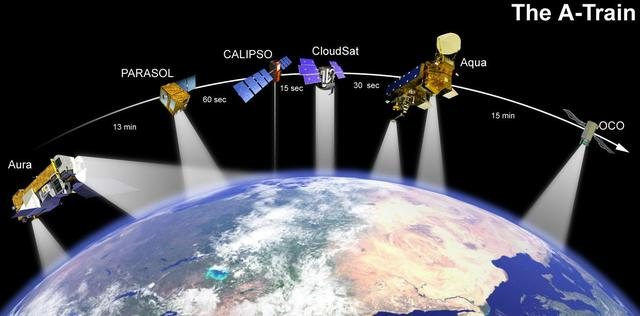
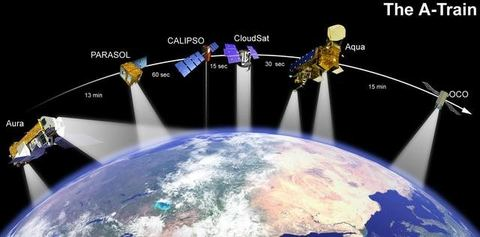
Trim decorative guidebook imagery
Keep a compact independent guidebook badge and one small topic-relevant NASA data illustration; remove repeated decorative photos from other guides.

diff --git a/README.md b/README.md
@@ -1,7 +1,7 @@
 # NASA Space Apps Challenge Bangladesh — বাংলা গাইডবুক
-![Earth observation from the International Space Station](assets/images/earth-from-iss.jpg)
-
-*Illustrative image: [NASA/JSC](<https://images.nasa.gov/details/iss045e013851>). This independent guide is not endorsed by NASA.*
+<p align="center">
+  <img src="assets/images/bangla-space-apps-guide.svg" width="300" alt="Independent Space Apps Bangla guidebook badge">
+</p>
 
 
 **NASA Space Apps Challenge Bangladesh** গাইডবুকটি বাংলাদেশি তরুণ-তরুণী, শিক্ষার্থী ও উদ্ভাবকদের জন্য—যাঁরা NASA Space Apps Challenge-এ অংশ নিতে চান এবং registration, challenge নির্বাচন, team formation, NASA open data, project তৈরি ও submission সম্পর্কে বাংলায় ধাপে ধাপে নির্দেশনা খুঁজছেন। এটি NASA-র official publication নয়; অংশগ্রহণের নিয়ম ও deadline সবসময় current-year official source-এ যাচাই করতে হবে।
@@ -10,7 +10,7 @@
 
 > **এটি community-created সহায়ক লাইব্রেরি; NASA-র official publication নয়।** Eligibility, schedule, team rules, challenge, AI/SI policy, judging, submission ও licence-এর ক্ষেত্রে অংশগ্রহণের বছরের official website, Participant FAQs, Terms এবং event guides-ই চূড়ান্ত। বছর উল্লেখ করা guide-কে অন্য edition-এর নিয়ম ধরে নেবেন না।
 >
-> NASA insignia/logotype এখানে ব্যবহার করা হয়নি: NASA-র brand guidance অনুযায়ী এগুলো protected এবং ভুল ব্যবহারে official endorsement-এর ধারণা হতে পারে। গাইডগুলোতে কেবল উৎস-উল্লেখসহ illustrative NASA imagery রাখা হয়েছে; এটি NASA-র অনুমোদন বোঝায় না। [NASA Images and Media Usage Guidelines](https://www.nasa.gov/nasa-brand-center/images-and-media/) দেখুন।
+> উপরের badge-টি এই community guidebook-এর নিজস্ব পরিচিতি—NASA-র logo বা official branding নয়। NASA-র ছবি ব্যবহার করলে guide-এ তার source credit দেওয়া হয়েছে এবং তা NASA endorsement বোঝায় না। [NASA Images and Media Usage Guidelines](https://www.nasa.gov/nasa-brand-center/images-and-media/) দেখুন।
 
 ## কোথা থেকে শুরু করবেন
 

diff --git a/01-Getting Started/NASA Space Apps Challenge Guidelines.md b/01-Getting Started/NASA Space Apps Challenge Guidelines.md
@@ -1,9 +1,4 @@
 # NASA Space Apps Challenge: নিয়ম, নিয়মাবলি ও অংশগ্রহণের পূর্ণাঙ্গ বাংলা গাইড
-![Skylab in Earth orbit](../assets/images/skylab-earth-orbit.jpg)
-
-*Illustrative image: [NASA/JSC](<https://images.nasa.gov/details/sl4-143-4707>). This independent guide is not endorsed by NASA.*
-
-
 > **গুরুত্বপূর্ণ:** এই নথি NASA Space Apps Challenge-এ অংশ নেওয়ার জন্য একটি ব্যবহারিক বাংলা নির্দেশিকা। নিচে **২০২৬ সালের অফিসিয়াল FAQ ও Participant Terms and Conditions-এ যাচাই করা নিয়ম** স্পষ্টভাবে চিহ্নিত করা হয়েছে। এগুলোকে ভবিষ্যৎ বছরের স্থায়ী নিয়ম ধরে নেবেন না। আপনার অংশগ্রহণের বছরের অফিসিয়াল Challenge page, Participant FAQs, Terms & Conditions, স্থানীয় ইভেন্টের নির্দেশনা এবং Participant Guides-ই চূড়ান্ত।
 >
 > **এটি NASA-র তৈরি বা অনুমোদিত নথি নয়।** পরিকল্পনা, দলগত কাজ ও জমা দেওয়ার প্রস্তুতি সহজ করতে তৈরি একটি বাংলা সহায়ক গাইড। এখানে “পরামর্শ” হিসেবে চিহ্নিত বিষয় NASA-র বাধ্যতামূলক নিয়ম নয়।

diff --git a/06-Challenges by Year/2025 Challenges.md b/06-Challenges by Year/2025 Challenges.md
@@ -1,9 +1,4 @@
 # NASA Space Apps Challenge 2025: প্রতিটি Challenge-এর বিস্তারিত বাংলা গাইড
-![Solar flare observed by NASA Solar Dynamics Observatory](../assets/images/solar-flare-sdo.jpg)
-
-*Illustrative image: [NASA/GSFC](<https://images.nasa.gov/details/GSFC_20171208_Archive_e001210>). This independent guide is not endorsed by NASA.*
-
-
 > **এটি কী:** NASA Space Apps Challenge 2025-এর অফিসিয়াল challenge তালিকায় থাকা ১৮টি numbered challenge এবং “Create Your Own Challenge” বিকল্পের বাংলা ব্যাখ্যা ও প্রকল্প-নির্দেশিকা।
 >
 > **তথ্যের সীমা:** challenge-এর নাম, মূল উদ্দেশ্য ও সংক্ষিপ্ত বক্তব্য NASA Space Apps-এর অফিসিয়াল ২০২৫ challenge তালিকার ভিত্তিতে লেখা। নিচের সম্ভাব্য feature, কাজের ধাপ, উদাহরণ ও সতর্কতার অনেকগুলো সম্পাদকীয়/শিক্ষামূলক পরামর্শ; এগুলোকে NASA-র বাধ্যতামূলক শর্ত, নির্দিষ্ট dataset, judging rubric বা বিজয়ী প্রকল্পের দাবি হিসেবে ধরবেন না। পূর্ণ statement ও Resources tab দেখতে প্রতিটি challenge-এর অফিসিয়াল পৃষ্ঠায় যান।

diff --git a/06-Challenges by Year/2024 Challenges.md b/06-Challenges by Year/2024 Challenges.md
@@ -1,9 +1,4 @@
 # NASA Space Apps Challenge 2024: সম্পূর্ণ বাংলা গাইড
-![Earth observation from the International Space Station](../assets/images/earth-from-iss.jpg)
-
-*Illustrative image: [NASA/JSC](<https://images.nasa.gov/details/iss045e013851>). This independent guide is not endorsed by NASA.*
-
-
 > **নথির পরিধি:** NASA Space Apps Challenge 2024-এর ২০টি নম্বরযুক্ত challenge এবং অতিরিক্ত **Create Your Own Challenge** বিকল্প। এখানে প্রতিটি challenge-এর অফিসিয়াল মূল বক্তব্য বাংলায় ব্যাখ্যা করা হয়েছে; এরপর আলাদা করে সম্ভাব্য সমাধানের ধারণা, কাজের ধাপ, দলীয় ভূমিকা ও যাচাইয়ের পরামর্শ দেওয়া হয়েছে।
 >
 > **গুরুত্বপূর্ণ:** সম্ভাব্য প্রকল্প, টুল ও কাজের ধাপগুলো শিক্ষামূলক পরামর্শ—এসবকে NASA-র বাধ্যতামূলক নিয়ম বা অফিসিয়াল judging rubric মনে করবেন না। নির্দিষ্ট challenge-এর সম্পূর্ণ statement ও Resources tab দেখতে সংশ্লিষ্ট অফিসিয়াল লিংকে যান।

diff --git a/06-Challenges by Year/2026 Challenges.md b/06-Challenges by Year/2026 Challenges.md
@@ -1,9 +1,4 @@
 # NASA Space Apps Challenge 2026: প্রতিটি Challenge-এর বিস্তারিত বাংলা গাইড
-![NASA A-Train Earth-observing satellite concept](../assets/images/earth-observation-satellites.jpg)
-
-*Illustrative image: [NASA/JPL](<https://images.nasa.gov/details/PIA03010>). This independent guide is not endorsed by NASA.*
-
-
 > **নথির পরিধি:** NASA Space Apps Challenge-এর ২০২৬ challenge list-এ দেখানো ১৪টি challenge-এর বাংলা ব্যাখ্যা, সম্ভাব্য প্রকল্প-ধারণা, কাজের ধাপ, সতর্কতা এবং সাধারণ প্রস্তুতি।
 >
 > **উৎস ও সীমাবদ্ধতা:** Challenge-এর নাম ও মূল বক্তব্য অফিসিয়াল ২০২৬ তালিকার ভিত্তিতে লেখা। প্রস্তাবিত feature, workflow, উদাহরণ ও checklist সহায়ক সম্পাদকীয় পরামর্শ; এগুলো NASA-র বাধ্যতামূলক নিয়ম, সম্পূর্ণ resource তালিকা বা judging rubric নয়। পূর্ণ statement ও Resources tab দেখতে সংশ্লিষ্ট অফিসিয়াল পৃষ্ঠা দেখুন।

diff --git a/06-Challenges by Year/2027 Predicted Challenges.md b/06-Challenges by Year/2027 Predicted Challenges.md
@@ -1,9 +1,4 @@
 # NASA Space Apps Challenge 2027: তিন বছরের ধারা থেকে অনুমানভিত্তিক বাংলা Challenge Draft
-![Skylab in Earth orbit](../assets/images/skylab-earth-orbit.jpg)
-
-*Illustrative image: [NASA/JSC](<https://images.nasa.gov/details/sl4-143-4707>). This independent guide is not endorsed by NASA.*
-
-
 > ## গুরুত্বপূর্ণ: এটি NASA-র অফিসিয়াল ২০২৭ challenge list নয়
 >
 > এই নথি ২০২৪, ২০২৫ ও ২০২৬ সালের challenge-গুলোর পুনরাবৃত্ত বিষয় ও নতুন দিক বিশ্লেষণ করে তৈরি একটি **অনুমানভিত্তিক proposal**। নিচের ইংরেজি নাম, সমস্যা-বিবরণ, deliverable, confidence এবং প্রকল্পের ধারণা NASA ঘোষণা করেনি। এগুলোকে NASA-র official challenge, selection, judging rule বা event commitment হিসেবে উদ্ধৃত করবেন না।

diff --git a/05-Participant Guides/Bangladesh Participant Guide.md b/05-Participant Guides/Bangladesh Participant Guide.md
@@ -1,9 +1,4 @@
 # Bangladesh Participant Guide
-![Earth observation from the International Space Station](../assets/images/earth-from-iss.jpg)
-
-*Illustrative image: [NASA/JSC](<https://images.nasa.gov/details/iss045e013851>). This independent guide is not endorsed by NASA.*
-
-
 ## বাংলাদেশ থেকে NASA Space Apps Challenge-এ অংশগ্রহণের প্রস্তুতি
 
 > **এটি বাংলাদেশে থাকা participant-দের জন্য ব্যবহারিক সহায়ক গাইড—NASA-র official policy বা কোনো নির্দিষ্ট বছরের event announcement নয়।** বাংলাদেশে কোনো Local Event হবে, কোন শহরে হবে, onsite/online format কী হবে, registration বা team rules কী—এসব প্রতি বছরের official event listing ও সংশ্লিষ্ট Local Event page-এ যাচাই করতে হবে। Event listing-এ না দেখে কোনো city/event-কে official বলা যাবে না।

diff --git a/03-Data and Tools/Data Citation and Open Source Licensing.md b/03-Data and Tools/Data Citation and Open Source Licensing.md
@@ -1,9 +1,4 @@
 # Data Citation and Open Source Licensing
-![Earth observation from the International Space Station](../assets/images/earth-from-iss.jpg)
-
-*Illustrative image: [NASA/JSC](<https://images.nasa.gov/details/iss045e013851>). This independent guide is not endorsed by NASA.*
-
-
 ## Dataset, code, image ও library-এর credit এবং licence নথিভুক্ত করার বাংলা গাইড
 
 > **এটি সাধারণ শিক্ষামূলক গাইড—আইনি পরামর্শ নয়, NASA-র official policy নয়, এবং কোনো নির্দিষ্ট dataset বা asset-এর licence নির্ধারণ করে না।** প্রতিটি resource-এর নিজস্ব landing page, metadata, licence, terms, attribution এবং citation নির্দেশনা পড়ুন। সন্দেহ থাকলে asset ব্যবহার করবেন না, rightsholder-এর অনুমতি নিন, বা event-এর official contact-এ জিজ্ঞেস করুন।

diff --git a/01-Getting Started/NASA Space Apps FAQ Bangla.md b/01-Getting Started/NASA Space Apps FAQ Bangla.md
@@ -1,9 +1,4 @@
 # NASA Space Apps FAQ Bangla
-![Earth observation from the International Space Station](../assets/images/earth-from-iss.jpg)
-
-*Illustrative image: [NASA/JSC](<https://images.nasa.gov/details/iss045e013851>). This independent guide is not endorsed by NASA.*
-
-
 ## Registration, team, event, project ও submission নিয়ে বাংলা প্রশ্নোত্তর
 
 > **এটি NASA-র official FAQ নয়।** NASA Space Apps Challenge-এর অংশগ্রহণকারীদের জন্য সহজ বাংলায় তৈরি সহায়ক প্রশ্নোত্তর। Registration, eligibility, event format, team limit, deadline, submission field, judging, award ও legal requirement বছরভেদে বদলাতে পারে। অংশগ্রহণের বছরের [Official Participant FAQs](https://www.spaceappschallenge.org/resources/participant-faqs/), [Participant Terms and Conditions](https://www.spaceappschallenge.org/legal/), event page এবং Participant Guides-ই চূড়ান্ত।

diff --git a/05-Participant Guides/Germany Participant Guide.md b/05-Participant Guides/Germany Participant Guide.md
@@ -1,9 +1,4 @@
 # Germany Participant Guide
-![Earth observation from the International Space Station](../assets/images/earth-from-iss.jpg)
-
-*Illustrative image: [NASA/JSC](<https://images.nasa.gov/details/iss045e013851>). This independent guide is not endorsed by NASA.*
-
-
 ## Germany থেকে NASA Space Apps Challenge-এ অংশগ্রহণের প্রস্তুতি
 
 > **এটি Germany-তে থাকা participant-দের জন্য ব্যবহারিক সহায়ক গাইড—NASA-র official policy বা কোনো নির্দিষ্ট বছরের event announcement নয়।** Germany-তে কোনো Local Event হবে, কোন শহরে হবে, onsite/online format কী হবে, registration বা team rules কী—এসব প্রতি বছরের official event listing ও সংশ্লিষ্ট Local Event page-এ যাচাই করতে হবে। Listing-এ না দেখে কোনো city/event-কে official বলা যাবে না।

diff --git a/05-Participant Guides/Germany Student Participant Guide.md b/05-Participant Guides/Germany Student Participant Guide.md
@@ -1,9 +1,4 @@
 # Germany University Student Participant Guide
-![Skylab in Earth orbit](../assets/images/skylab-earth-orbit.jpg)
-
-*Illustrative image: [NASA/JSC](<https://images.nasa.gov/details/sl4-143-4707>). This independent guide is not endorsed by NASA.*
-
-
 ## Germany-তে বিশ্ববিদ্যালয়ে পড়া শিক্ষার্থীর জন্য NASA Space Apps Challenge পরিচিতি
 
 > **এটি Germany-তে থাকা university student-দের জন্য ব্যবহারিক সহায়ক গাইড।** Germany-তে থাকা বা বিশ্ববিদ্যালয়ের student হওয়া নিজে থেকেই কোনো নির্দিষ্ট Local Event, Universal Event, award বা judging stage-এর eligibility নিশ্চিত করে না। Participation-এর বছরের official eligibility, event affiliation, registration, age/consent, team ও submission rules দেখে সিদ্ধান্ত নিতে হবে।

diff --git a/02-Planning and Team/Team Formation and Roles.md b/02-Planning and Team/Team Formation and Roles.md
@@ -1,9 +1,4 @@
 # Team Formation and Roles
-![Skylab in Earth orbit](../assets/images/skylab-earth-orbit.jpg)
-
-*Illustrative image: [NASA/JSC](<https://images.nasa.gov/details/sl4-143-4707>). This independent guide is not endorsed by NASA.*
-
-
 ## NASA Space Apps Challenge-এর জন্য দল গঠন ও দায়িত্ব ভাগের বাংলা গাইড
 
 > **এটি NASA-র official team policy বা নির্দিষ্ট বছরের Team Formation Guide-এর বিকল্প নয়।** নিচের role, agreement, communication ও কাজ ভাগের পদ্ধতিগুলো ব্যবহারিক পরামর্শ। Team size, eligibility, event affiliation, team formation-এর সময়, website-এ সদস্য যোগ/বাদ দেওয়ার নিয়ম এবং judging-এর শর্ত আপনার অংশগ্রহণের বছরের official FAQ, Terms, Team Formation Guide ও Local Event page থেকে যাচাই করুন।
